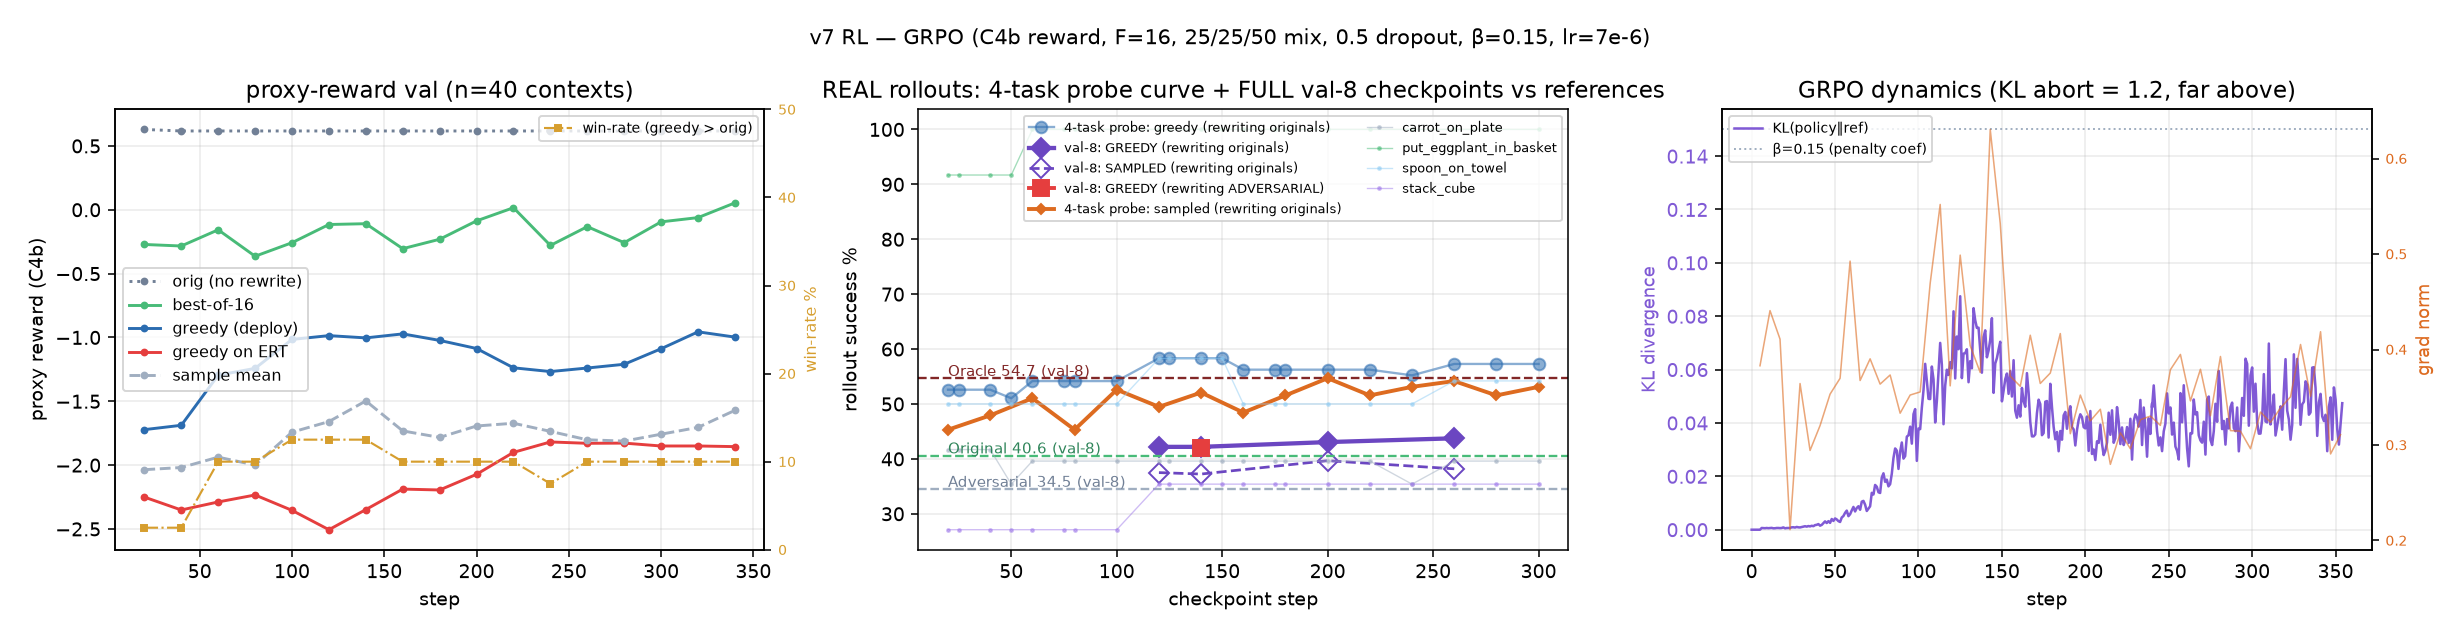
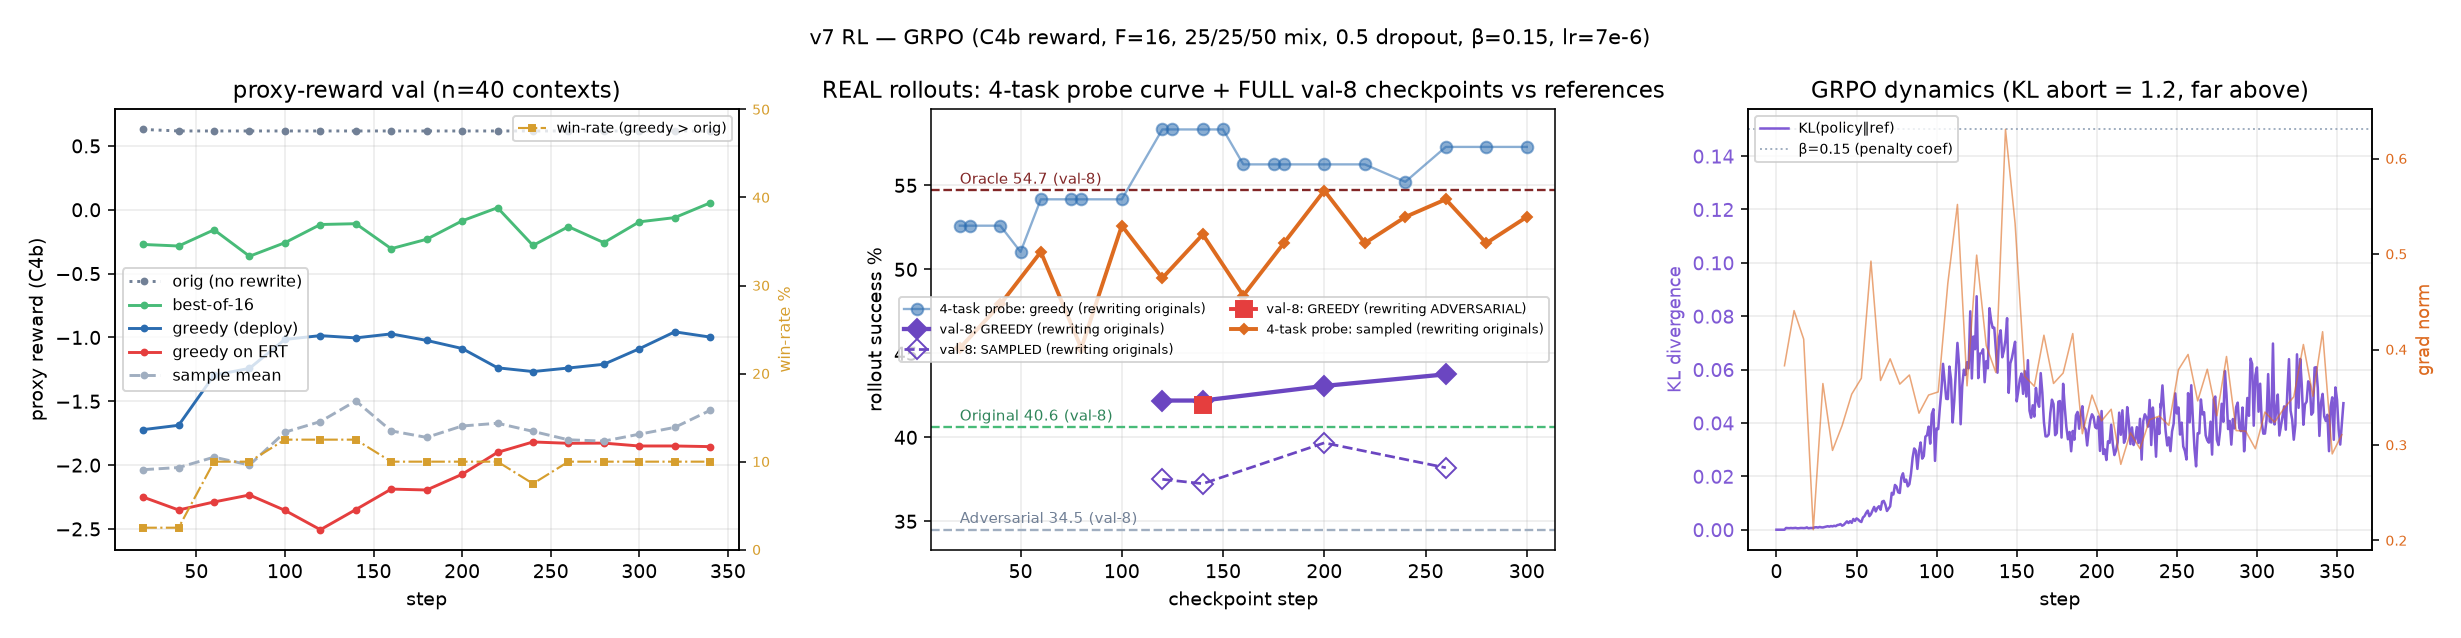
v7_progress: drop per-task lines for y-resolution (user request)

diff --git a/scripts/make_v7_progress.py b/scripts/make_v7_progress.py
@@ -93,10 +93,6 @@ sc = [c for c in curve if c.get("sampled_pooled") is not None]
 if sc:
     a2.plot([c["step"] for c in sc], [c["sampled_pooled"] for c in sc],
             marker="D", ms=4, color="#dd6b20", lw=2.0, label="4-task probe: sampled (rewriting originals)")
-tasks = sorted(curve[0]["per_task"])
-for t, col in zip(tasks, ["#a0aec0", "#48bb78", "#90cdf4", "#9f7aea"]):
-    a2.plot(cs, [c["per_task"].get(t) for c in curve], marker=".", ms=3, lw=0.7, alpha=0.5,
-            color=col, label=t.replace("widowx_", ""))
 a2.set_xlabel("checkpoint step")
 a2.set_ylabel("rollout success %")
 a2.set_title("REAL rollouts: 4-task probe curve + FULL val-8 checkpoints vs references")
